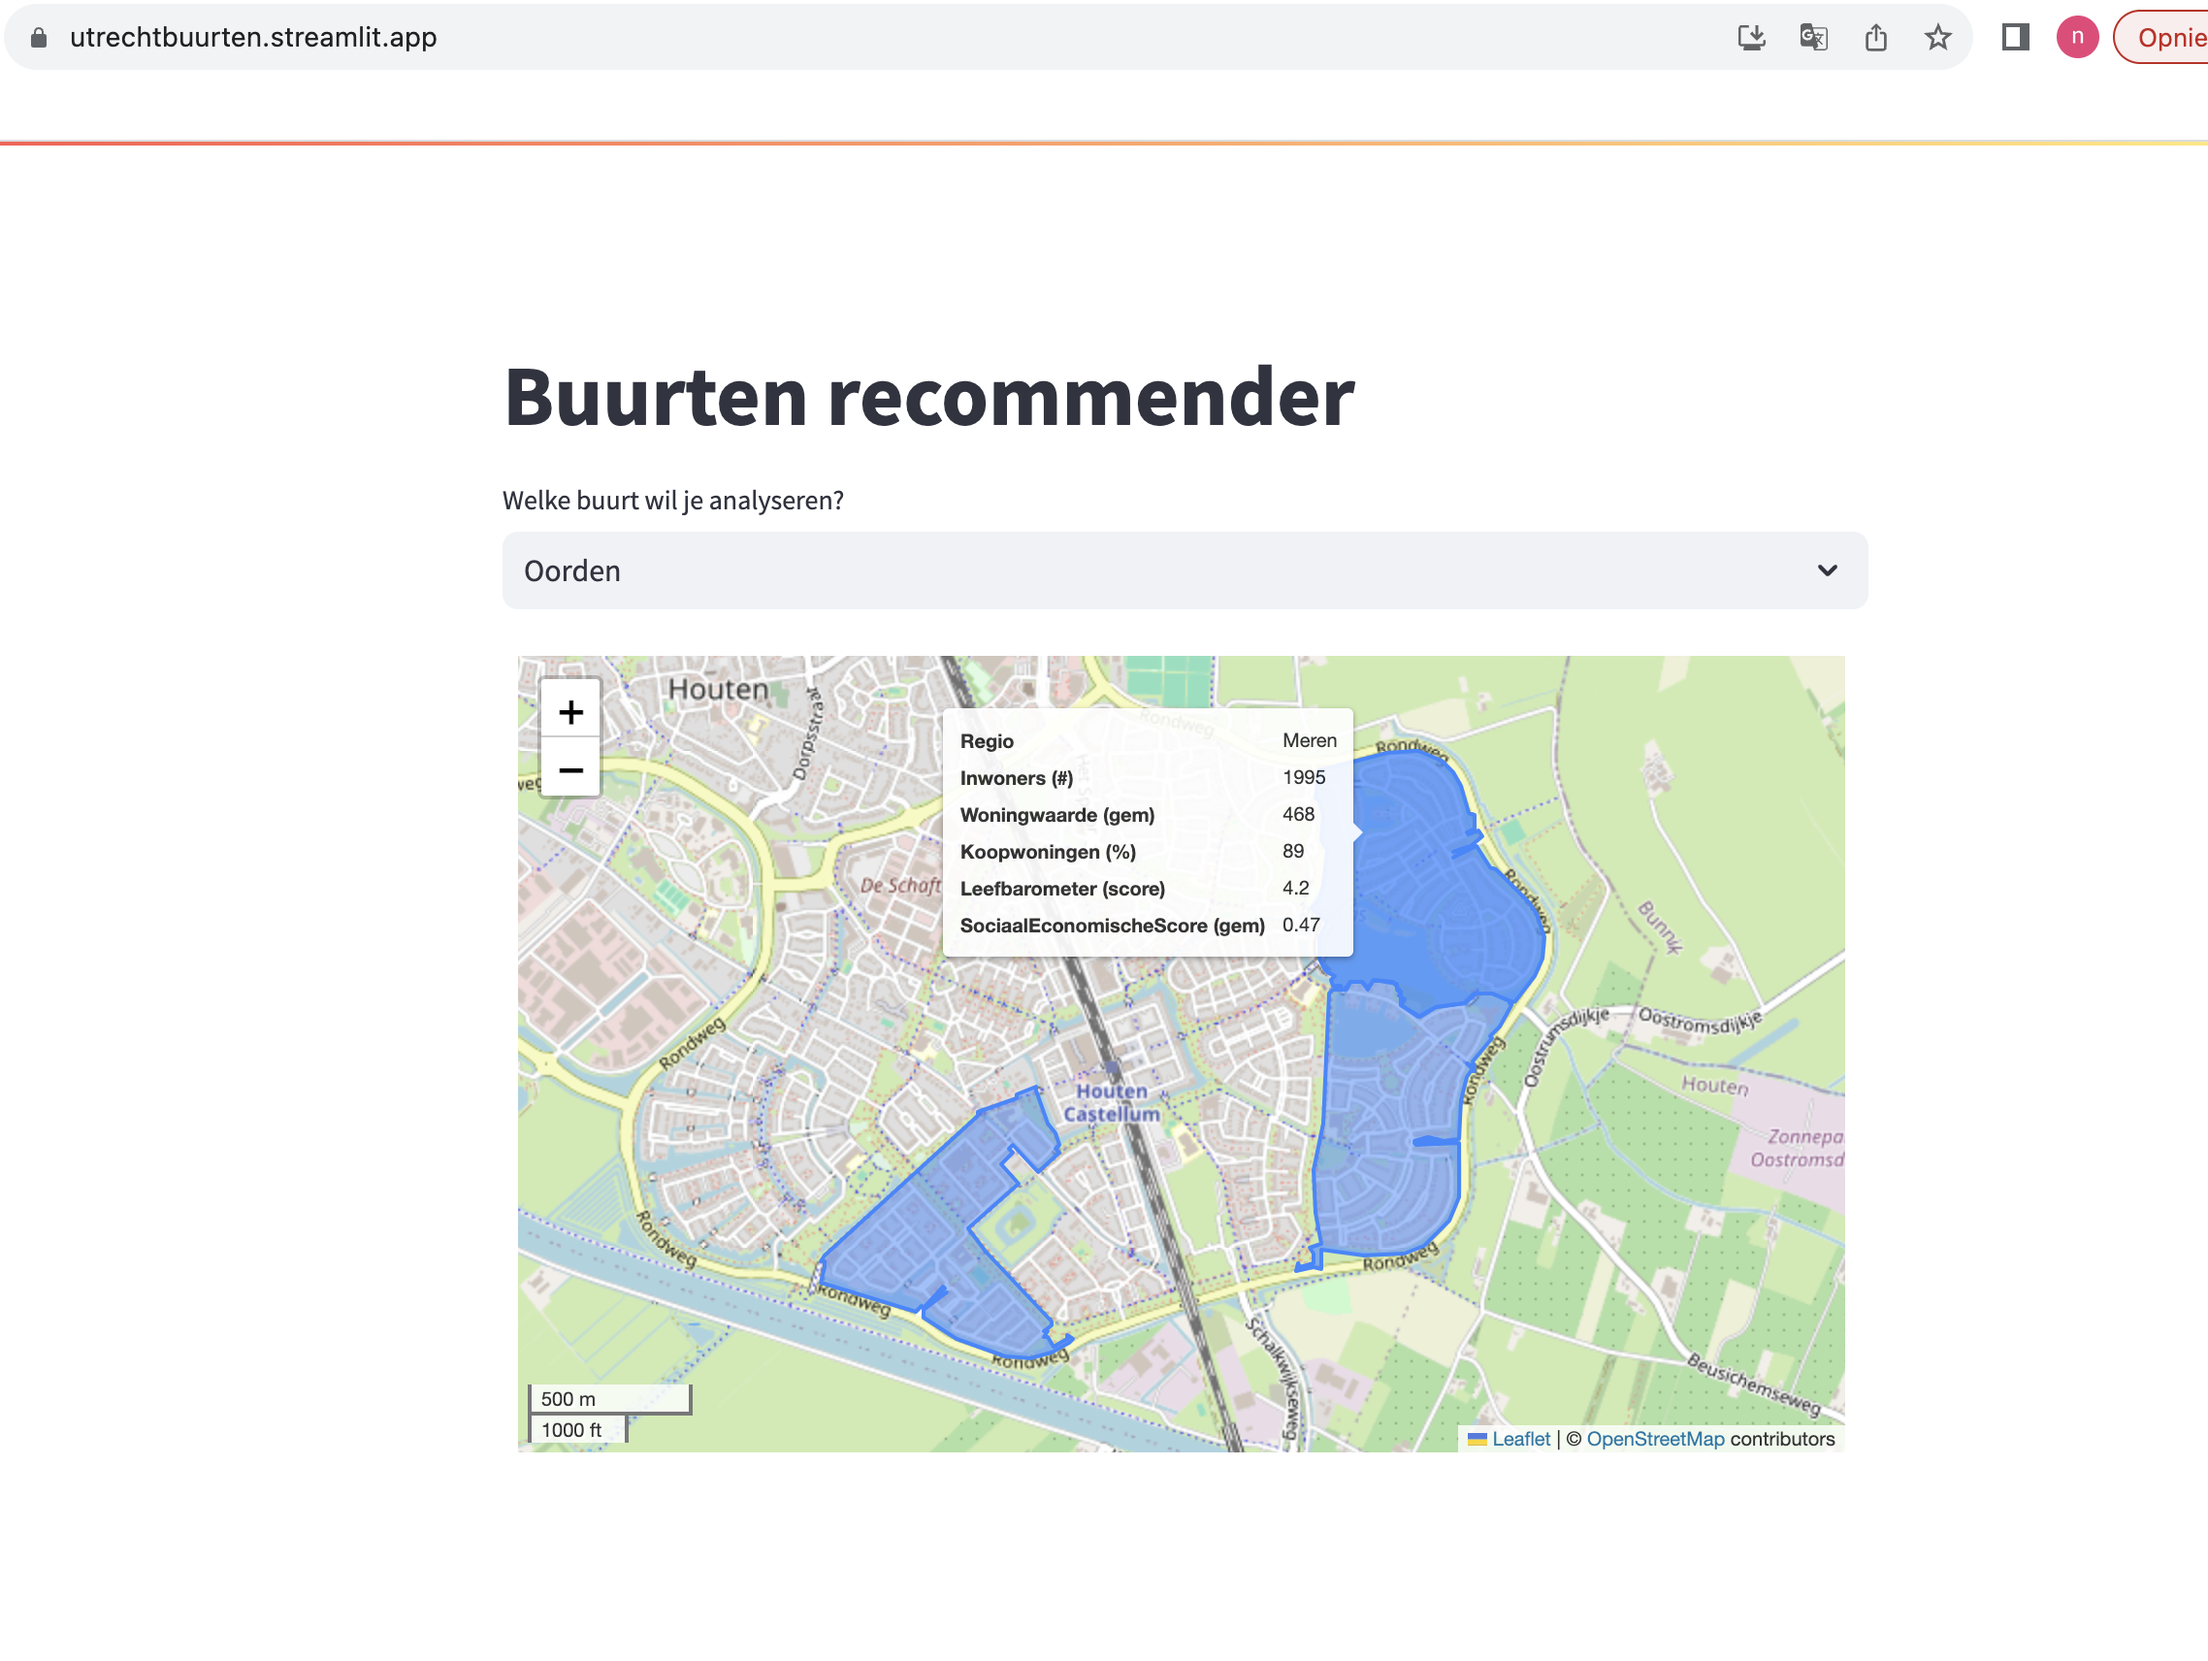
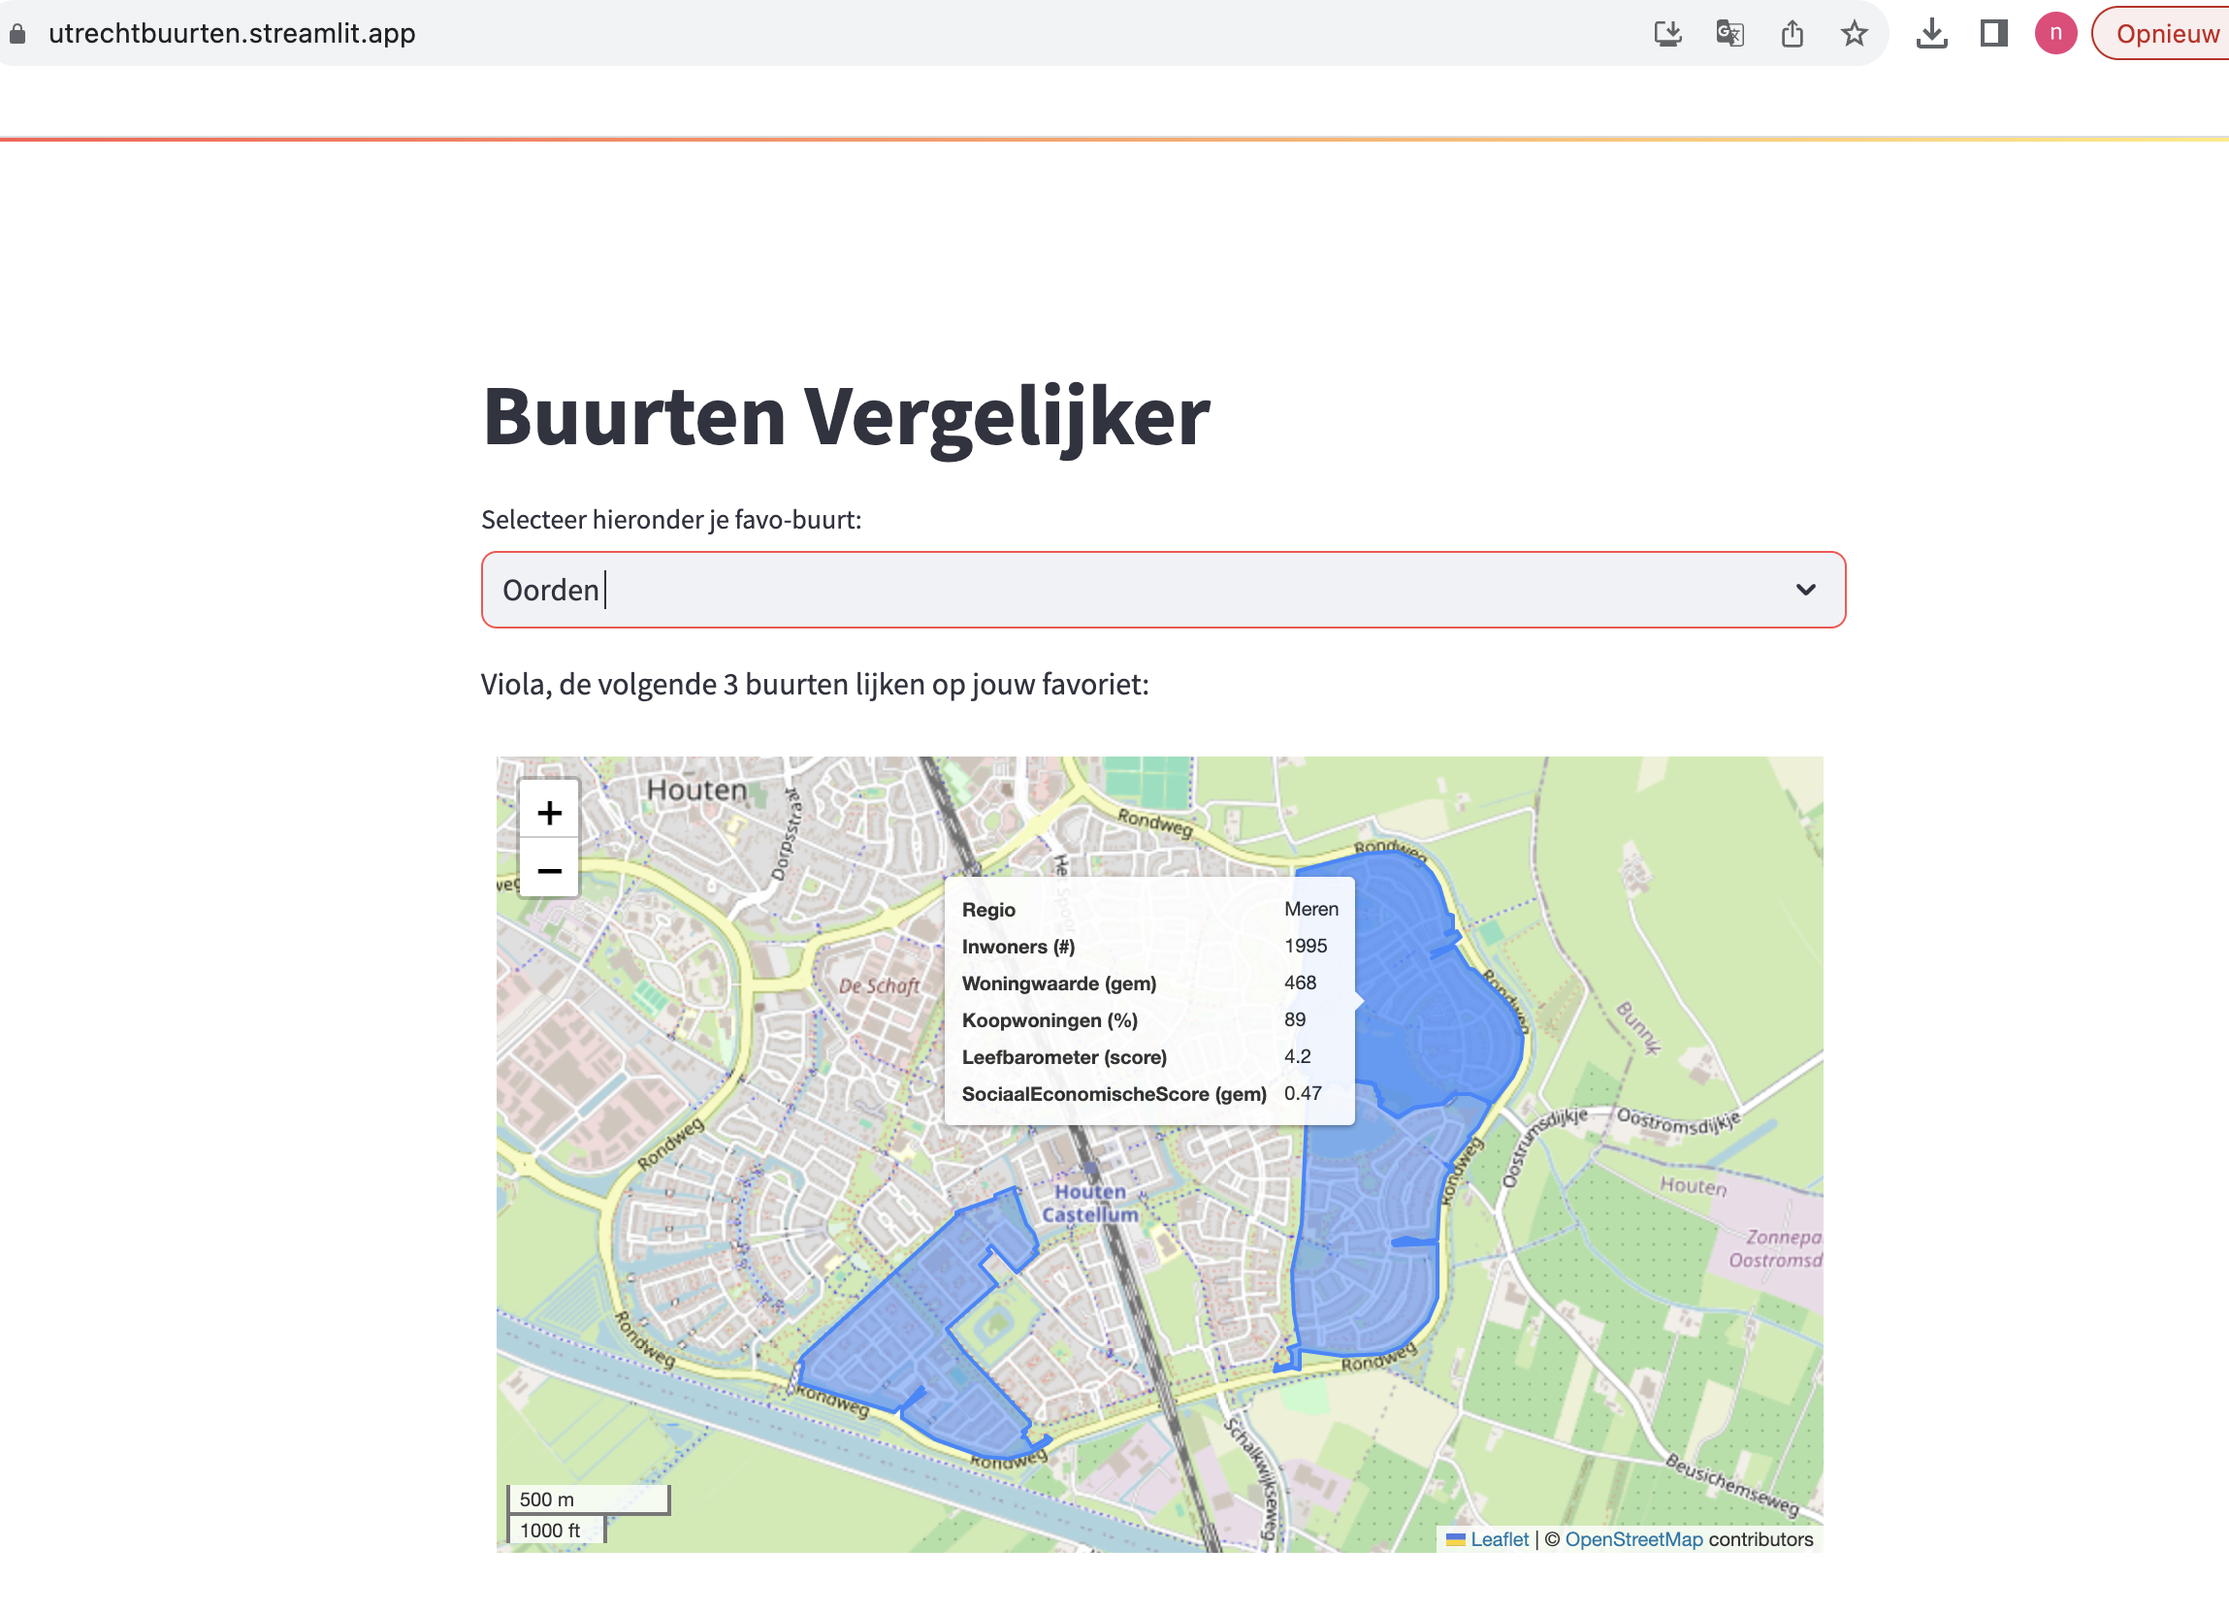
fix(app): edit structure streamlit text

Changed region(s): [[0.2184, 0.2148, 0.8423, 0.9819], [0.7487, 0.0, 1.0, 0.0307], [0.0, 0.0, 0.1872, 0.0307]]

diff --git a/streamlit/app.py b/streamlit/app.py
@@ -40,15 +40,15 @@ def get_prediction(analyse_gebied, buurt, features, aantal_voorspellingen):
     response = requests.post(url, json=data)
     # st.text(f'check health response:{response}')
     return response.text
-
-st.title('Buurten recommender')
-buurt = st.selectbox('Welke buurt wil je analyseren?',
+  
+st.title('Buurten Vergelijker')
+buurt = st.selectbox('Selecteer hieronder je favo-buurt: ',
     ('<select>', 'Oud Hoograven-Zuid', 'Voordorp en Voorveldsepolder', 'Slagen', 'Oorden', 'Poorten'))  
 
 if buurt != '<select>':
-    with st.spinner('Nog even wachten, de kaart wordt geladen...'):
-        print(analyse_gebied, buurt, features, aantal_voorspellingen)
-        response = get_prediction(analyse_gebied, buurt, features, aantal_voorspellingen)
+    with st.spinner('Even wachten, de kaart wordt geladen...'):
+        recommender = get_prediction(analyse_gebied, buurt, features, aantal_voorspellingen)
+        response = recommender.get_prediction(buurt)
         html_map = BeautifulSoup(response, "html.parser") 
 
         with open('output.html', 'w', encoding='utf-8') as file:
@@ -56,5 +56,10 @@ if buurt != '<select>':
 
         with open('output.html', 'r') as f:
             html_map = f.read()
-
-        components.html(html_map, height=600, width=700)    
+            
+        if html_map:
+            st.markdown('Viola, de volgende 3 buurten lijken op jouw favoriet: ')
+            components.html(html_map, height=600, width=700)
+else:
+    st.markdown('Wat is jouw favoriete buurt? Selecteer je buurt en de vergelijker doet zijn werk...')
+    # st.image(image=img, caption="Buurten Vergelijker") 

diff --git a/demo/demoapp.py b/demo/demoapp.py
@@ -26,6 +26,7 @@ if buurt != '<select>':
 
         with open('output.html', 'r') as f:
             html_map = f.read()
+            
         if html_map:
             st.markdown('Viola, de volgende 3 buurten lijken op jouw favoriet: ')
             components.html(html_map, height=600, width=700)
